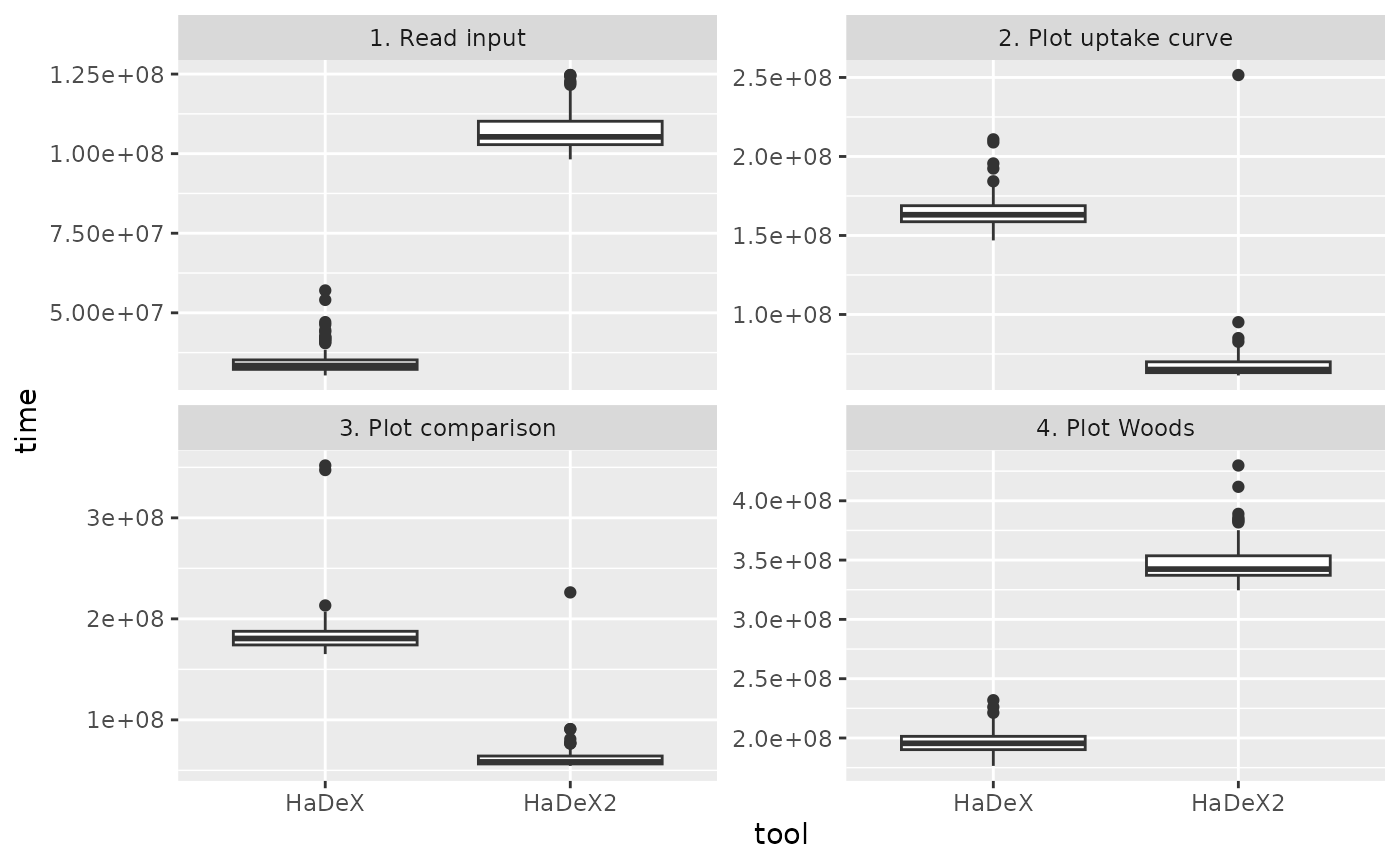
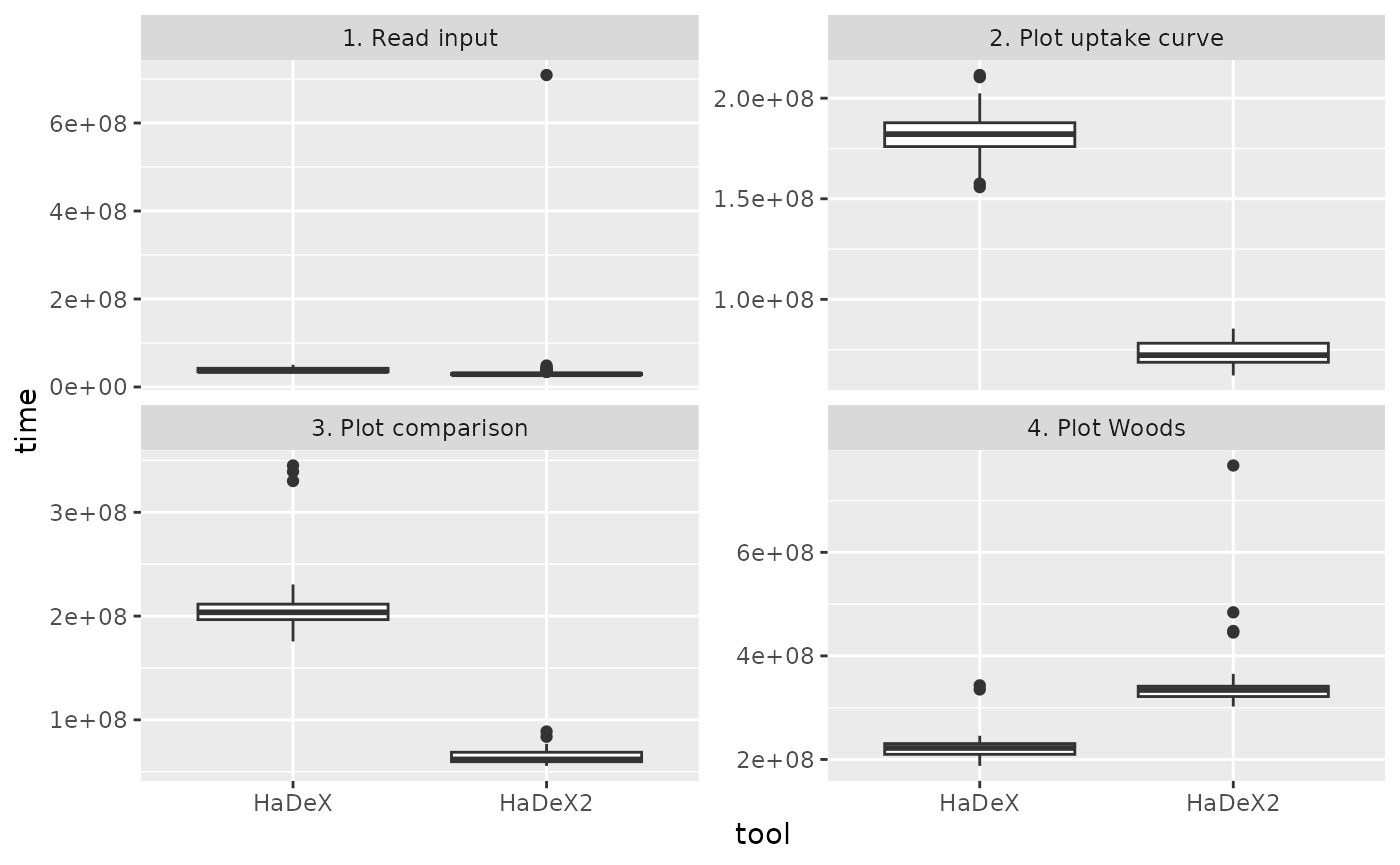
Deploying to gh-pages from @ hadexversum/HaDeX2@33ea609c9cef582412d30b420f4d612bf720f37d 🚀

diff --git a/articles/version_comparison.html b/articles/version_comparison.html
@@ -680,58 +680,58 @@ plot (in milliseconds):</p>
 <tr class="odd">
 <td align="left">HaDeX</td>
 <td align="left">1. Read input</td>
-<td align="right">33.44495</td>
-<td align="right">32.1839</td>
-<td align="right">35.30410</td>
+<td align="right">36.35380</td>
+<td align="right">34.58810</td>
+<td align="right">42.50895</td>
 </tr>
 <tr class="even">
 <td align="left">HaDeX2</td>
 <td align="left">1. Read input</td>
-<td align="right">105.27765</td>
-<td align="right">102.8357</td>
-<td align="right">110.21350</td>
+<td align="right">29.04070</td>
+<td align="right">28.34905</td>
+<td align="right">30.64945</td>
 </tr>
 <tr class="odd">
 <td align="left">HaDeX</td>
 <td align="left">2. Plot uptake curve</td>
-<td align="right">163.12015</td>
-<td align="right">158.5743</td>
-<td align="right">168.96835</td>
+<td align="right">182.13275</td>
+<td align="right">175.83445</td>
+<td align="right">187.84845</td>
 </tr>
 <tr class="even">
 <td align="left">HaDeX2</td>
 <td align="left">2. Plot uptake curve</td>
-<td align="right">65.14970</td>
-<td align="right">63.1914</td>
-<td align="right">70.07895</td>
+<td align="right">72.27275</td>
+<td align="right">68.63295</td>
+<td align="right">78.20930</td>
 </tr>
 <tr class="odd">
 <td align="left">HaDeX</td>
 <td align="left">3. Plot comparison</td>
-<td align="right">180.56545</td>
-<td align="right">174.0696</td>
-<td align="right">187.73510</td>
+<td align="right">203.62590</td>
+<td align="right">196.51045</td>
+<td align="right">211.50405</td>
 </tr>
 <tr class="even">
 <td align="left">HaDeX2</td>
 <td align="left">3. Plot comparison</td>
-<td align="right">58.37120</td>
-<td align="right">56.3455</td>
-<td align="right">64.30860</td>
+<td align="right">61.84455</td>
+<td align="right">59.54835</td>
+<td align="right">68.75025</td>
 </tr>
 <tr class="odd">
 <td align="left">HaDeX</td>
 <td align="left">4. Plot Woods</td>
-<td align="right">195.51855</td>
-<td align="right">190.1901</td>
-<td align="right">201.42075</td>
+<td align="right">222.15940</td>
+<td align="right">209.37170</td>
+<td align="right">230.77550</td>
 </tr>
 <tr class="even">
 <td align="left">HaDeX2</td>
 <td align="left">4. Plot Woods</td>
-<td align="right">342.40110</td>
-<td align="right">337.0913</td>
-<td align="right">353.72510</td>
+<td align="right">334.18940</td>
+<td align="right">321.51290</td>
+<td align="right">341.49115</td>
 </tr>
 </tbody>
 </table>

diff --git a/articles/version_comparison.md b/articles/version_comparison.md
@@ -239,16 +239,16 @@ package.
 Below, we present the summary of numeric values used to create this plot
 (in milliseconds):
 
-| tool   | task                  |    median |       lq |        uq |
-|:-------|:----------------------|----------:|---------:|----------:|
-| HaDeX  | 1\. Read input        |  33.44495 |  32.1839 |  35.30410 |
-| HaDeX2 | 1\. Read input        | 105.27765 | 102.8357 | 110.21350 |
-| HaDeX  | 2\. Plot uptake curve | 163.12015 | 158.5743 | 168.96835 |
-| HaDeX2 | 2\. Plot uptake curve |  65.14970 |  63.1914 |  70.07895 |
-| HaDeX  | 3\. Plot comparison   | 180.56545 | 174.0696 | 187.73510 |
-| HaDeX2 | 3\. Plot comparison   |  58.37120 |  56.3455 |  64.30860 |
-| HaDeX  | 4\. Plot Woods        | 195.51855 | 190.1901 | 201.42075 |
-| HaDeX2 | 4\. Plot Woods        | 342.40110 | 337.0913 | 353.72510 |
+| tool   | task                  |    median |        lq |        uq |
+|:-------|:----------------------|----------:|----------:|----------:|
+| HaDeX  | 1\. Read input        |  36.35380 |  34.58810 |  42.50895 |
+| HaDeX2 | 1\. Read input        |  29.04070 |  28.34905 |  30.64945 |
+| HaDeX  | 2\. Plot uptake curve | 182.13275 | 175.83445 | 187.84845 |
+| HaDeX2 | 2\. Plot uptake curve |  72.27275 |  68.63295 |  78.20930 |
+| HaDeX  | 3\. Plot comparison   | 203.62590 | 196.51045 | 211.50405 |
+| HaDeX2 | 3\. Plot comparison   |  61.84455 |  59.54835 |  68.75025 |
+| HaDeX  | 4\. Plot Woods        | 222.15940 | 209.37170 | 230.77550 |
+| HaDeX2 | 4\. Plot Woods        | 334.18940 | 321.51290 | 341.49115 |
 
 The HaDeX2 package is significantly more powerful than the previous
 version. Moreover, it was rewritten for the comfort of use - as can be
